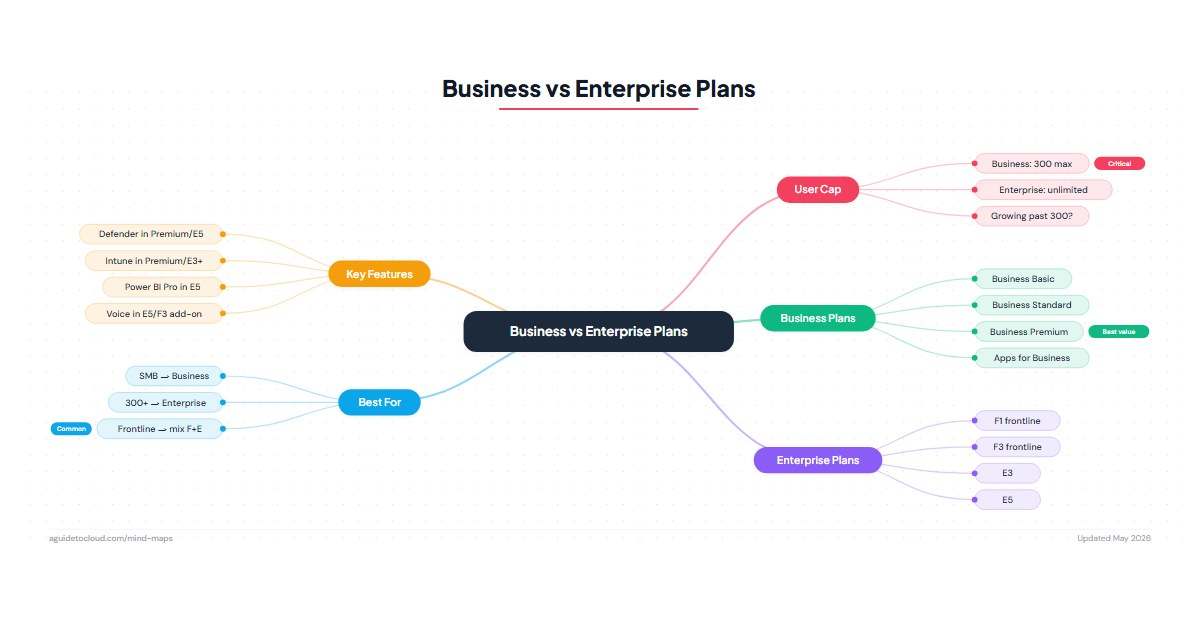
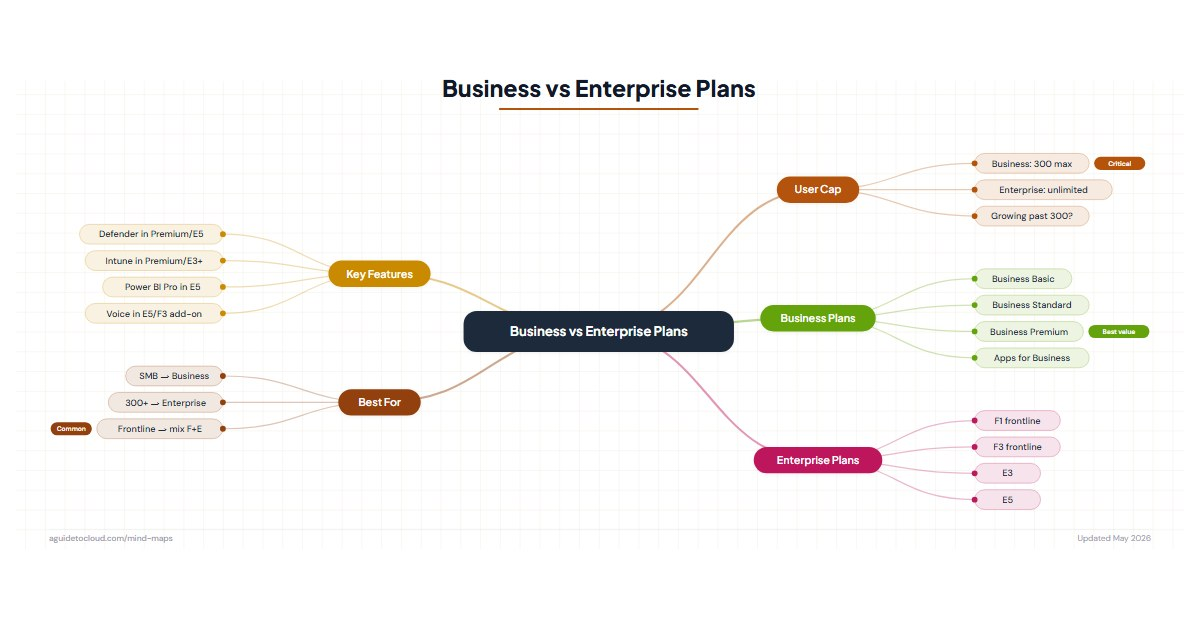
feat: Mind maps — visual variety per category (palette + background pattern)
Each map category now has a distinct visual identity, addressing the
'all looks the same after 2-3 maps' feedback while keeping the radial
layout that works well for these story types.

Three category-specific styles:

- Copilot (6 maps): cool palette (indigo/teal/cyan/violet/emerald) +
  dot-grid background — whiteboard productivity feel
- Licensing (3 maps): warm earth palette (rust/olive/wine/mustard/
  taupe) + graph-paper background — notebook ledger feel
- Certifications (3 maps): bold primaries (cobalt/forest/gold/royal/
  crimson/pink) + isometric diamond background — textbook blueprint feel

Renderer now reads data-category from the canvas element and selects
the matching SVG pattern. Within each family, every map uses a
distinct subset of the family palette so maps remain individually
recognisable.

Verified via Playwright across all 12 maps (correct pattern + footer +
zero JS errors). All 12 OG images regenerated. Cache bumped.

diff --git a/static/js/mind-maps-v2.js b/static/js/mind-maps-v2.js
@@ -155,17 +155,37 @@
     var filter = defs.append('filter').attr('id', 'mm-shadow').attr('x', '-20%').attr('y', '-20%').attr('width', '140%').attr('height', '140%');
     filter.append('feDropShadow').attr('dx', 0).attr('dy', 1).attr('stdDeviation', 2.5).attr('flood-color', 'rgba(0,0,0,0.06)');
 
-    /* Dot-grid pattern — whiteboard canvas feel */
-    var dotPattern = defs.append('pattern').attr('id', 'mm-dots')
-      .attr('width', 20).attr('height', 20).attr('patternUnits', 'userSpaceOnUse');
-    dotPattern.append('circle').attr('cx', 10).attr('cy', 10).attr('r', 0.7).attr('fill', '#D4D4D8');
+    /* Read category to pick background pattern */
+    var category = (container.getAttribute('data-category') || 'general').toLowerCase();
+
+    /* Define category-specific background patterns. Each pattern lives inside <defs>
+       so it travels with the SVG when exported as PNG. */
+    var patternId = 'mm-bg-' + category;
+    if (category === 'licensing') {
+      /* Graph paper — warm cream lines, notebook feel */
+      var gp = defs.append('pattern').attr('id', patternId)
+        .attr('width', 24).attr('height', 24).attr('patternUnits', 'userSpaceOnUse');
+      gp.append('path').attr('d', 'M 24 0 L 0 0 L 0 24').attr('fill', 'none')
+        .attr('stroke', '#E8DFCD').attr('stroke-width', 0.6);
+    } else if (category === 'certifications') {
+      /* Isometric diamonds — blueprint feel */
+      var iso = defs.append('pattern').attr('id', patternId)
+        .attr('width', 28).attr('height', 16).attr('patternUnits', 'userSpaceOnUse');
+      iso.append('path').attr('d', 'M 0 8 L 14 0 L 28 8 L 14 16 Z').attr('fill', 'none')
+        .attr('stroke', '#D8E0EC').attr('stroke-width', 0.5);
+    } else {
+      /* Default — dot grid (Copilot + general) */
+      var dp = defs.append('pattern').attr('id', patternId)
+        .attr('width', 20).attr('height', 20).attr('patternUnits', 'userSpaceOnUse');
+      dp.append('circle').attr('cx', 10).attr('cy', 10).attr('r', 0.7).attr('fill', '#D4D4D8');
+    }
 
     var g = svg.append('g');
 
-    /* ── Dot-grid canvas background ── */
+    /* ── Category-specific canvas background ── */
     g.append('rect')
       .attr('x', minX).attr('y', minY).attr('width', vw).attr('height', vh)
-      .attr('fill', 'url(#mm-dots)');
+      .attr('fill', 'url(#' + patternId + ')');
 
     /* ── Heading banner at top (like Merill's title bar) ── */
     var headingY = minY + 20;

diff --git a/layouts/mind-maps/single.html b/layouts/mind-maps/single.html
@@ -33,7 +33,7 @@
   </div>
 
   {{/* Static canvas — click to expand */}}
-  <div class="mm-canvas mm-canvas--static" id="mm-canvas"></div>
+  <div class="mm-canvas mm-canvas--static" id="mm-canvas" data-category="{{ .Params.category | default "general" }}"></div>
 
   {{/* Click hint */}}
   <div class="mm-hint">Click the map to expand · Download to share</div>
